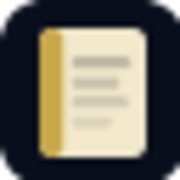
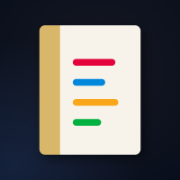
Ship brand assets v2 and footer contact copy tweak.
Replace favicons, touch icons, PWA manifest icons, OG image, and nav mark with the v2 party-colour book, add web manifest wiring, and point Organization logo at icon-512.

diff --git a/index.html b/index.html
@@ -4,9 +4,10 @@
   <meta charset="UTF-8">
   <meta name="viewport" content="width=device-width, initial-scale=1.0">
   <meta name="theme-color" content="#090e1c">
-  <link rel="icon" href="/favicon.ico" sizes="any">
-  <link rel="icon" href="/favicon.svg" type="image/svg+xml">
-  <link rel="apple-touch-icon" href="/apple-touch-icon.png">
+  <link rel="icon" href="/favicon.ico?v=2026071101" sizes="any">
+  <link rel="icon" href="/favicon.svg?v=2026071101" type="image/svg+xml">
+  <link rel="apple-touch-icon" href="/apple-touch-icon.png?v=2026071101">
+  <link rel="manifest" href="/site.webmanifest?v=2026071101">
   <title>The British Manifesto Archive — www.manifestos.org.uk</title>
   <meta name="description" id="meta-description" content="A comprehensive digital archive of general, devolved, regional, and European Parliament election manifestos, results, and maps in the UK.">
   <link rel="canonical" id="canonical-link" href="https://www.manifestos.org.uk/">
@@ -17,13 +18,13 @@
   <meta property="og:title" id="og-title" content="The British Manifesto Archive — www.manifestos.org.uk">
   <meta property="og:description" id="og-description" content="A comprehensive digital archive of general, devolved, regional, and European Parliament election manifestos, results, and maps in the UK.">
   <meta property="og:url" id="og-url" content="https://www.manifestos.org.uk/">
-  <meta property="og:image" id="og-image" content="https://www.manifestos.org.uk/og-image.jpg">
+  <meta property="og:image" id="og-image" content="https://www.manifestos.org.uk/og-image.jpg?v=2026071101">
   <meta property="og:image:width" id="og-image-width" content="1200">
   <meta property="og:image:height" id="og-image-height" content="630">
-  <meta property="og:image:alt" id="og-image-alt" content="The British Manifesto Archive — a digital repository of UK political party manifestos">
+  <meta property="og:image:alt" id="og-image-alt" content="The British Manifesto Archive — UK political manifestos, election results and campaign records">
   <meta name="twitter:card" id="twitter-card" content="summary_large_image">
   <meta name="twitter:site" content="@manifestosuk">
-  <meta name="twitter:image" id="twitter-image" content="https://www.manifestos.org.uk/og-image.jpg">
+  <meta name="twitter:image" id="twitter-image" content="https://www.manifestos.org.uk/og-image.jpg?v=2026071101">
   <meta name="twitter:title" id="twitter-title" content="The British Manifesto Archive — www.manifestos.org.uk">
   <meta name="twitter:description" id="twitter-description" content="A comprehensive digital archive of general, devolved, regional, and European Parliament election manifestos, results, and maps in the UK.">
   <link rel="preconnect" href="https://fonts.googleapis.com">
@@ -37,11 +38,13 @@
   <nav id="main-nav" aria-label="Primary navigation">
     <a href="/" class="nav-logo">
       <svg class="logo-icon" viewBox="0 0 32 32" fill="none" aria-hidden="true">
-        <rect x="7" y="5" width="18" height="22" rx="1.5" fill="currentColor" opacity="0.92"/>
-        <rect x="7" y="5" width="3.5" height="22" rx="1.5" fill="currentColor"/>
-        <rect x="12.5" y="10" width="10" height="1.4" rx="0.7" fill="#090e1c" opacity="0.25"/>
-        <rect x="12.5" y="13.5" width="8" height="1.4" rx="0.7" fill="#090e1c" opacity="0.2"/>
-        <rect x="12.5" y="17" width="9.5" height="1.4" rx="0.7" fill="#090e1c" opacity="0.15"/>
+        <rect width="32" height="32" rx="7" fill="#090e1c"/>
+        <rect x="6" y="3" width="20" height="26" rx="1.6" fill="#f7f3ea"/>
+        <path d="M7.6 3h2.5v26H7.6A1.6 1.6 0 0 1 6 27.4V4.6A1.6 1.6 0 0 1 7.6 3Z" fill="#d9b76a"/>
+        <rect x="12.6" y="8.25" width="8.4" height="2.1" rx="1.05" fill="#e4003b"/>
+        <rect x="12.6" y="13.6" width="6.4" height="2.1" rx="1.05" fill="#0087dc"/>
+        <rect x="12.6" y="19" width="9" height="2.1" rx="1.05" fill="#faa61a"/>
+        <rect x="12.6" y="24.4" width="5.6" height="2.1" rx="1.05" fill="#00b140"/>
       </svg>
       <span class="logo-text">manifestos.org.uk</span>
     </a>
@@ -113,7 +116,7 @@
     </div>
     <div class="footer-contact-row">
       <div class="footer-contact">
-        <a href="mailto:hello@manifestos.org.uk">hello@manifestos.org.uk</a>
+        Get in touch: <a href="mailto:hello@manifestos.org.uk">hello@manifestos.org.uk</a>
       </div>
       <nav class="footer-social" aria-label="Social media">
         <ul>

diff --git a/styles.css b/styles.css
@@ -1766,6 +1766,10 @@ h1, h2, h3, h4 {
   gap: 1.5rem;
   flex-wrap: wrap;
 }
+.footer-contact {
+  font-size: 0.9rem;
+  color: var(--text-muted);
+}
 .footer-contact a {
   font-size: 0.9rem;
   color: var(--text-muted);
@@ -4740,6 +4744,7 @@ h1, h2, h3, h4 {
 }
 [data-theme="light"] .footer-tagline,
 [data-theme="light"] .footer-links a,
+[data-theme="light"] .footer-contact,
 [data-theme="light"] .footer-contact a,
 [data-theme="light"] .footer-social a,
 [data-theme="light"] .footer-base,

diff --git a/functions/_middleware.js b/functions/_middleware.js
@@ -196,7 +196,7 @@ function orgNode() {
     '@id': ORG_ID,
     name: SITE_NAME,
     url: `${SITE_URL}/`,
-    logo: `${SITE_URL}/og-image.jpg`,
+    logo: `${SITE_URL}/icon-512.png`,
     description: DEFAULT_DESCRIPTION,
     sameAs: [
       'https://bsky.app/profile/manifestos.org.uk',
